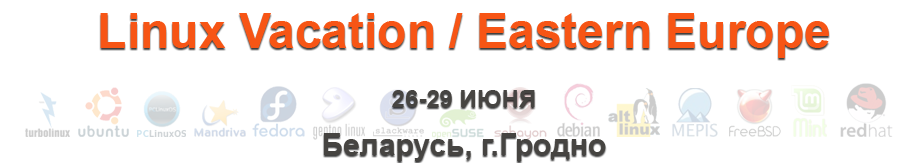
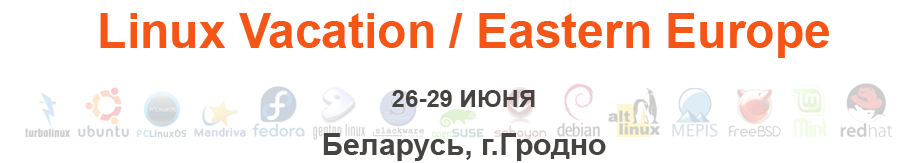
small fixes
- public/stylesheets/style.css - coding conventions
   - new head-lvee.png without ugly shadow
   - users_controller - additional filters

diff --git a/public/stylesheets/style.css b/public/stylesheets/style.css
@@ -1,44 +1,40 @@
 /*------------------------------------------------- intro ---------------------------------------------------------------*/
-
-
-
 html, body, ul, ol, li, p, h1, h2, h3, h4, h5, h6, form, fieldset, a, img {
-	margin: 0;
-	padding: 0;
-	border: 0;
-  }
+  margin: 0;
+  padding: 0;
+  border: 0;
+}
 
 
 html, body {
-	height:100%;
-	width: 100%;
-	max-width:100%;
+    height:100%;
+    width: 100%;
+    max-width:100%;
 }
 
 
 
 body {
-	min-height: 100%;
-	height: auto; !important;
-	font-family:  Tahoma, sans;
-	font-size: 12px;
-	color: #515650;
-	background: #d3d3d3;
-	
+  min-height: 100%;
+  height: auto; !important;
+  font-family:  Tahoma, sans;
+  font-size: 12px;
+  color: #515650;
+  background: #d3d3d3;
 }
 
 /*------------------------------------------------- /intro ---------------------------------------------------------------*/
 
 
 .logpass {
-	background: #969291;
-	line-height: 28px;
-	color: white;
-	font-weight: bold;
-	padding: 0 10px 0 10px;
-	min-width: 954px;
+  background: #969291;
+  line-height: 28px;
+  color: white;
+  font-weight: bold;
+  padding: 0 10px 0 10px;
+  min-width: 954px;
   font-size: 11px;
-	}
+}
 	
 .logpass div{
   text-align: right;
@@ -284,123 +280,118 @@ p.gipLink {
 } 
 	
 .simple-text ul {
-	padding: 7px 50px 7px 50px;
-	}
+  padding: 7px 50px 7px 50px;
+}
+
 .simple-text ul li {
-	padding: 5px 0;}
+  padding: 5px 0;
+}
 	
 .sitemap {
-	padding: 10px 50px 20px 50px;
-	}
-.sitemap ul li li{
-	margin-left: 20px;
-	}
-	
+  padding: 10px 50px 20px 50px;
+}
 
+.sitemap ul li li{
+  margin-left: 20px;
+}
 	
 .orgcom div{
-	clear: both;
-	padding-top: 30px;
-
-	}
+  clear: both;
+  padding-top: 30px;
+}
 	
 .orgcom div ul {
-	float: left;
-	padding: 0 10px;
-	margin-top: 1px;
-	}
+  float: left;
+  padding: 0 10px;
+  margin-top: 1px;
+}
 	
 .orgcom div li {
-	padding: 0;
-	list-style: none;
+  padding: 0;
+  list-style: none;
   width: 600px;
-	}
+}
 	
 .orgcom div li span{
-	background: #ff8400;
-	padding: 1px 10px;
-	color: #fff;
-	font-weight:bold;
-
-	}
+  background: #ff8400;
+  padding: 1px 10px;
+  color: #fff;
+  font-weight:bold;
+}
 	
 .orgcom div img{
-	float: left;
-	border: 2px solid #ff8400;
-	display: block;
-	padding: 0;
-	margin: 0;
-	}
+  float: left;
+  border: 2px solid #ff8400;
+  display: block;
+  padding: 0;
+  margin: 0;
+}
 
 .required {
   color: red;
-  }
+}
 
 .fieldWithErrors input {
   border: 2px solid red;
   width: 370px;
   height: 34px;
   font-size: 22px;
-  }
+}
 
 
-.errorExplanation ul{
+.errorExplanation ul {
   border: 1px solid red;
   background: #B9121B;
   font-weight: bold;
   color: #fff;
   margin: 30px 0;
-  }
+}
 /*------------------------------------------------- /content ---------------------------------------------------------------*/
 
 
 
 
 .clear {
-	clear: both;
-	}
+  clear: both;
+}
 
 /*------------------------------------------------- footer ---------------------------------------------------------------*/
 
 
 .footer{
-clear: both;
-
-background: url(../images/bg-foo.jpg) bottom no-repeat;
-
-	padding: 17px 0 45px 29px;
-
-	}
+  clear: both;
+  background: url(../images/bg-foo.jpg) bottom no-repeat;
+  padding: 17px 0 45px 29px;
+}
 
 .sponsors-logo {
-	height: 122px;
-	padding: 0 140px;
+  height: 122px;
+  padding: 0 140px;
+}
 	
-	}
-	
-.sponsors-logo a{
-	position: relative;
-	display: block;
-	float: left;
-	width: 49%;
-	text-align: center;}
+.sponsors-logo a {
+  position: relative;
+  display: block;
+  float: left;
+  width: 49%;
+  text-align: center;
+}
 
 .licence {
-
-	padding: 0px 0 20px 0;
-	}
+  padding: 0px 0 20px 0;
+}
 	
-.licence p{
-	text-align: center;
-	color: #313131;
-	font-size: 9px;
-	font-weight: bold;
-	}
+.licence p {
+  text-align: center;
+  color: #313131;
+  font-size: 9px;
+  font-weight: bold;
+}
 	
-.licence a{
-	color: #313131;
+.licence a {
+  color: #313131;
+}
 
-	}
 /*------------------------------------------------- /footer ---------------------------------------------------------------*/
 
 

diff --git a/app/controllers/users_controller.rb b/app/controllers/users_controller.rb
@@ -1,6 +1,6 @@
 class UsersController < ApplicationController
 
-  before_filter :login_required, :only => [:show]
+  before_filter :login_required, :only => [:show, :index, :edit, :update]
 
   def index
     @users = User.paginate :page => params[:page]
@@ -56,7 +56,7 @@ class UsersController < ApplicationController
     end
 
     flash[:notice] = 'Вы не можете изменять имя пользователя' if params[:user].delete(:login)
-    @user.update_attributes(params[:user])
+    @user.update_attributes(params[:user]) if @user.editable_by? current_user
     redirect_to user_path(@user)
   end
 
